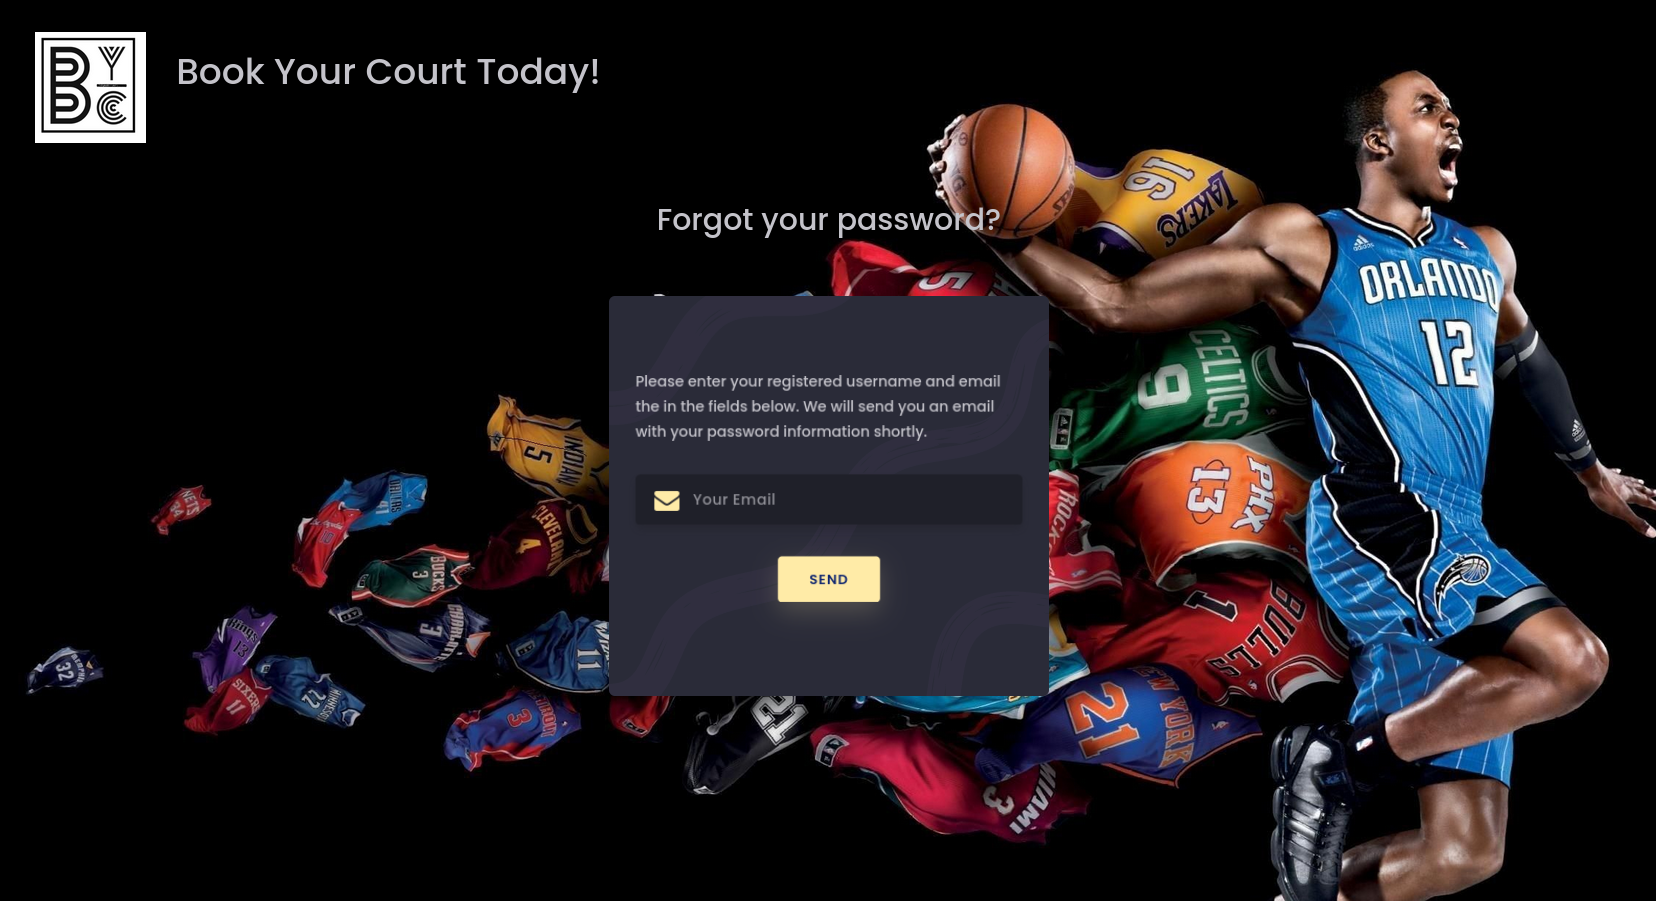
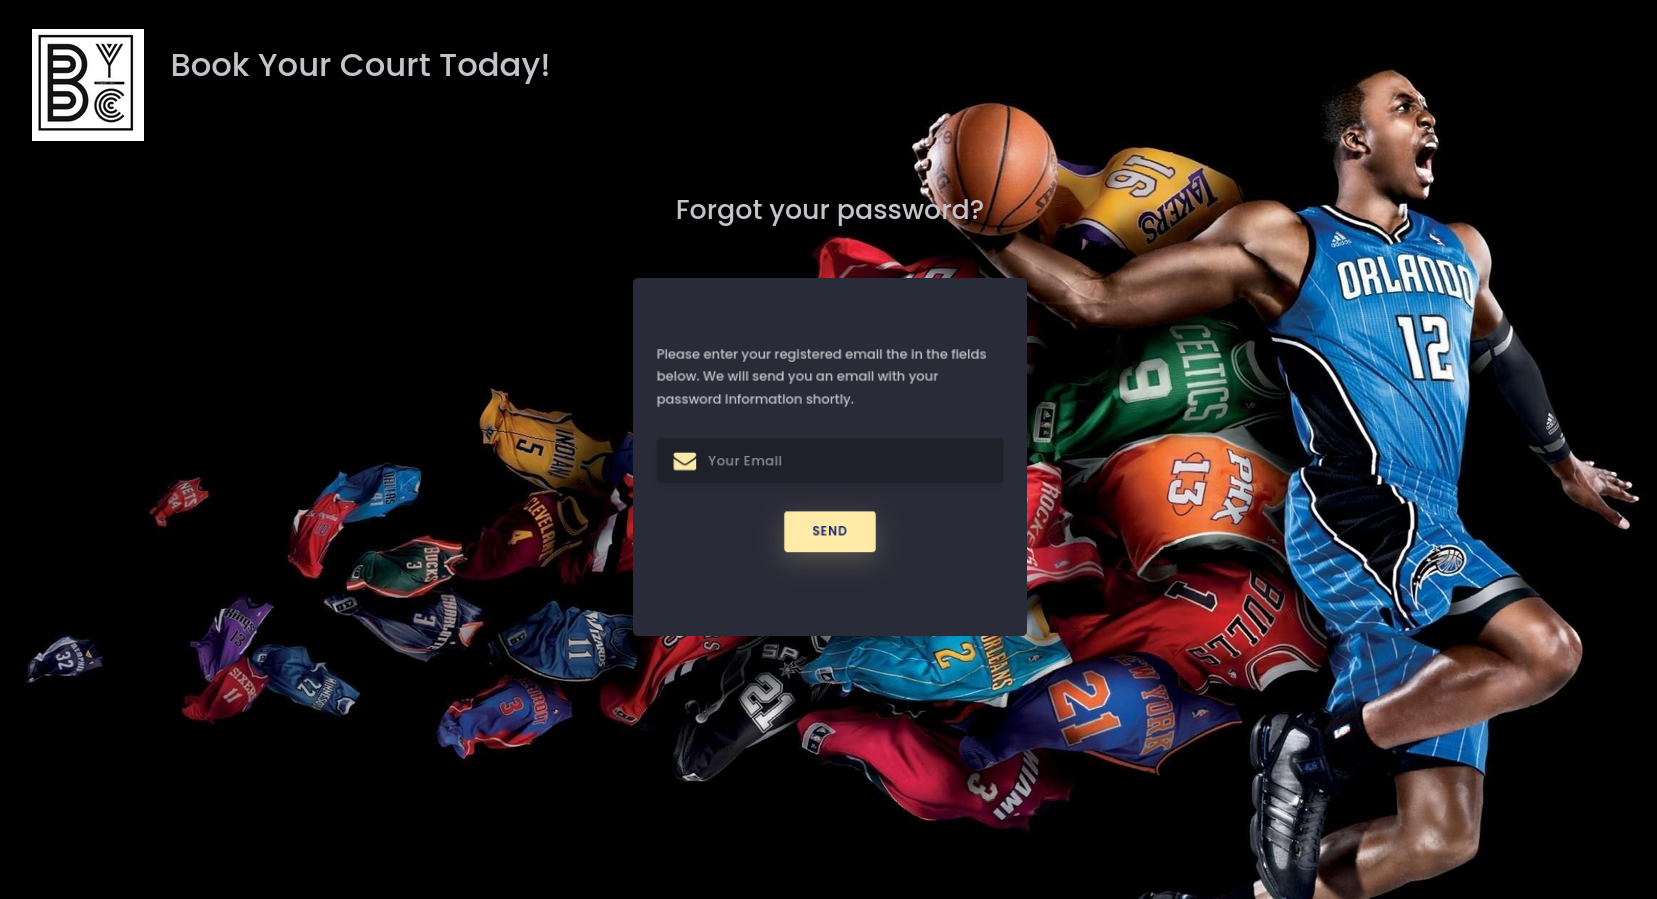
re-upload forgot pwd after text change

diff --git a/src/templates/forgot_pwd.html b/src/templates/forgot_pwd.html
@@ -29,7 +29,7 @@
                             <div class="card-front">
                                 <div class="center-wrap">
                                     <div class="txt-left mb-2">
-                                        <p>Please enter your registered username and email the in the fields below.
+                                        <p>Please enter your registered email the in the fields below.
                                         We will send you an email with your password information shortly. </p>
                                     </div>
                                     <div class="text-center">
